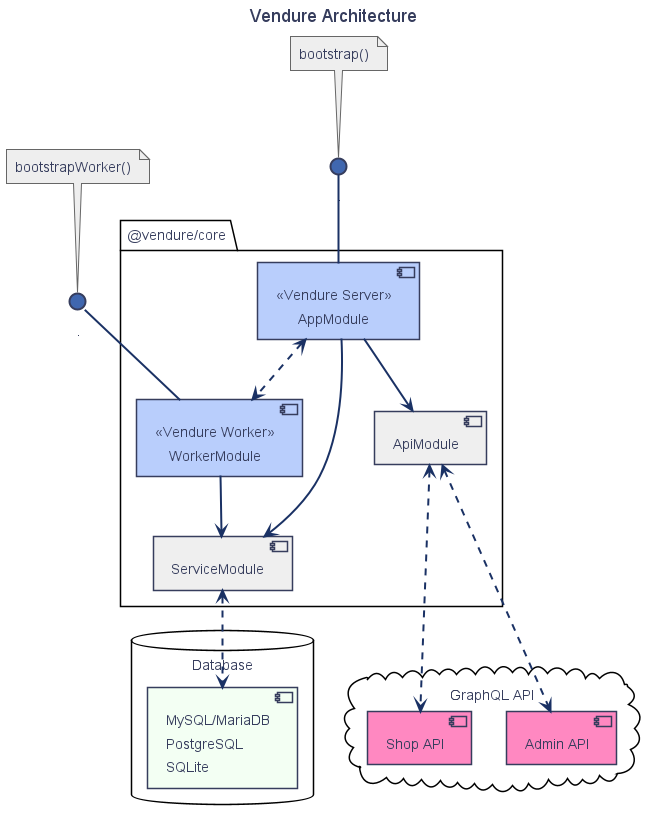
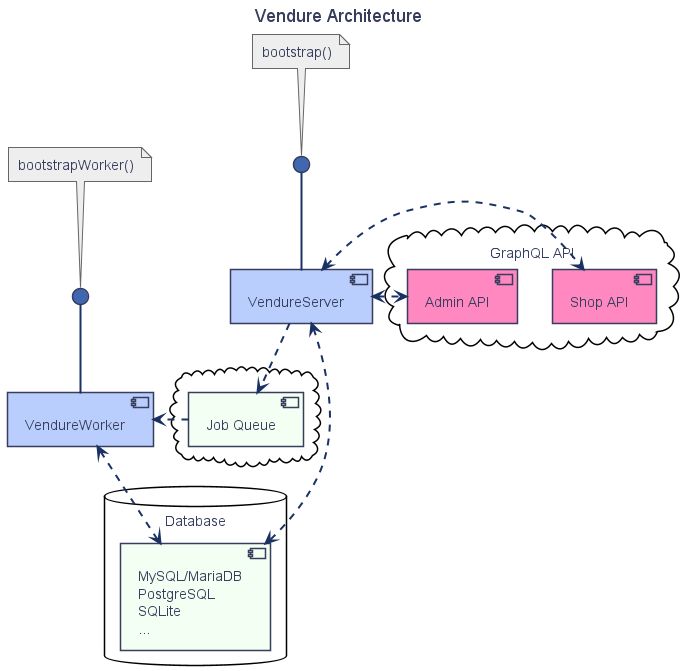
docs: Update docs relating to worker & job queue

diff --git a/docs/content/docs/developer-guide/vendure-worker.md b/docs/content/docs/developer-guide/vendure-worker.md
@@ -5,44 +5,70 @@ showtoc: true
 
 # Vendure Worker
  
-The Vendure Worker is a process which is responsible for running computationally intensive or otherwise long-running tasks in the background. For example updating a search index or performing image transformations.
+The Vendure Worker is a process which is responsible for running computationally intensive or otherwise long-running tasks in the background. For example updating a search index or sending emails. Running such tasks in the background allows the server to stay responsive, since a response can be returned immediately without waiting for the slower tasks to complete. 
+
+Put another way, the Worker executes jobs registered with the [JobQueueService]({{< relref "job-queue-service" >}}).
 
 The worker is started by calling the [`bootstrapWorker()`]({{< relref "bootstrap-worker" >}}) function with the same configuration as is passed to the main server `bootstrap()`:
 
 ```TypeScript
-import { Transport } from '@nestjs/microservices';
-import { bootstrapWorker, VendureConfig } from '@vendure/core';
+import { bootstrapWorker } from '@vendure/core';
+import { config } from './vendure-config';
 
-const config: VendureConfig = {
-    // ...
-    workerOptions: {
-        transport: Transport.TCP,
-        options: {
-            host: 'localhost',
-            port: 4242,
-        },
-    },
-};
-
-bootstrapWorker(config).catch(err => {
+bootstrapWorker(config)
+  // We must explicitly start the job queue in order for this
+  // worker instance to start listening for and processing jobs.
+  .then(worker => worker.startJobQueue())
+  .catch(err => {
     console.log(err);
-});
+    process.exit(1);
+  });
 ```
 
 ## Underlying architecture
 
-Internally, the Worker is an instance of a [NestJS microservice](https://docs.nestjs.com/microservices/basics). By default the TCP protocol is used to send messages to and receive reponses from the Worker, but other transports may be used such as Redis or gRPC.
+The Worker is a [NestJS standalone application](https://docs.nestjs.com/standalone-applications). This means it is almost identical to the main server app, but does not have any network layer listening for requests. The server communicates with the worker via a "job queue" architecture. The exact implementation of the job queue is dependent on the configured `JobQueueStrategy` - see the [Job Queue guide]({{< relref "job-queue" >}}) for more details.
 
-## Running on the main process
+## Multiple workers
 
-There is an option `runInMainProcess` which, if set to `true` will cause the Worker to be bootstrapped along with the main application, without the need for a separate process running `bootstrapWorker`. This is mainly used for testing and automated tasks, and is not advised for production use, since it negates the benefits of running long tasks off of the main process.
+It is possible to run multiple workers in parallel, in order to better handle heavy loads. Using the [JobQueueOptions.activeQueues]({{< relref "job-queue-options" >}}#activequeues) configuration, it is even possible to have particular workers dedicated to one or more specific type of job.
+For example, if you application does video transcoding, you might want to set up a dedicated worker just for that task:
+
+```TypeScript
+import { bootstrapWorker, mergeConfig } from '@vendure/core';
+import { config } from './vendure-config';
+
+const videoWorkerConfig = mergeConfig(config, {
+  jobQueueOptions: {
+    activeQueues: ['transcode-video'],
+  }
+})
+
+bootstrapWorker(videoWorkerConfig)
+  .then(worker => worker.startJobQueue())
+  .catch(err => {
+    console.log(err);
+    process.exit(1);
+  });
+```
+
+## Running jobs on the main process
+
+It is possible to run jobs from the Job Queue on the main server. This is mainly used for testing and automated tasks, and is not advised for production use, since it negates the benefits of running long tasks off of the main process. To do so, you need to manually start the JobQueueService:
+
+```TypeScript
+import { bootstrap, JobQueueService } from '@vendure/core';
+import { config } from './vendure-config';
+
+bootstrap(config)
+  .then(app => app.get(JobQueueService).start())
+  .catch(err => {
+    console.log(err);
+    process.exit(1);
+  });
+```
 
 ## Running custom code on the worker
 
 If you are authoring a [Vendure plugin]({{< relref "/docs/plugins" >}}) to implement custom functionality, you can also make use of the worker process in order to handle long-running or computationally-demanding tasks. See the [Plugin Examples]({{< relref "plugin-examples" >}}#running-processes-on-the-worker) page for an example of this.
 
-{{< alert "primary" >}}
-Note: The [WorkerService]({{< relref "worker-service" >}}) combines well with the [JobQueueService]({{< relref "job-queue-service" >}}).
-
-A real example of this can be seen in the [EmailPlugin source](https://github.com/vendure-ecommerce/vendure/blob/07e1958f1ad1766e6fd3dae80f526bb688c0288e/packages/email-plugin/src/plugin.ts#L201-L210)
-{{< /alert >}}

diff --git a/docs/content/docs/plugins/plugin-examples/using-job-queue-service.md b/docs/content/docs/plugins/plugin-examples/using-job-queue-service.md
@@ -1,10 +1,10 @@
 ---
-title: "Using the JobQueueService"
+title: "Using the Job Queue"
 weight: 4
 showtoc: true
 ---
 
-# Using the JobQueueService
+# Using the Job Queue
 
 If your plugin involves long-running tasks, you can take advantage of the [job queue system]({{< relref "/docs/developer-guide/job-queue" >}}) that comes with Vendure. This example defines a mutation that can be used to transcode and link a video to a Product's customFields.
 
@@ -20,7 +20,7 @@ class ProductVideoResolver {
   constructor(private productVideoService: ProductVideoService) {}
 
   @Mutation()
-  addVideoToProduct(@Args() args: any) {
+  addVideoToProduct(@Args() args: { productId: ID; videoUrl: string; }) {
     return this.productVideoService.transcodeForProduct(
       args.productId, 
       args.videoUrl,
@@ -34,50 +34,45 @@ The resolver just defines how to handle the new `addVideoToProduct` mutation, de
 // product-video.service.ts
 import { Injectable, OnModuleInit } from '@nestjs/common';
 import { JobQueue, JobQueueService, ID, Product, TransactionalConnection } from '@vendure/core';
-import { transcode } from 'third-party-video-sdk'; 
-
-let jobQueue: JobQueue<{ productId: ID; videoUrl: string; }>;
+import { transcode } from 'third-party-video-sdk';
 
 @Injectable()
 class ProductVideoService implements OnModuleInit { 
+    
+  private jobQueue: JobQueue<{ productId: ID; videoUrl: string; }>;
   
-  constructor(private jobQueueService: JobQueueService, 
+  constructor(private jobQueueService: JobQueueService,
               private connection: TransactionalConnection) {}
 
   onModuleInit() {
-    // This check ensures that only a single JobQueue is created, even if this
-    // service gets instantiated more than once.
-    if (!jobQueue) {
-      jobQueue = this.jobQueueService.createQueue({
-        name: 'transcode-video',
-        concurrency: 5,
-        process: async job => {
-          // Here we define how each job in the queue will be processed.
-          // In this case we call out to some imaginary 3rd-party video
-          // transcoding API, which performs the work and then
-          // returns a new URL of the transcoded video, which we can then
-          // associate with the Product via the customFields.
-          try {
-            const result = await transcode(job.data.videoId);
-            await this.connection.getRepository(Product).save({
-              id: job.data.productId,
-              customFields: {
-                videoUrl: result.url,
-              },
-            });
-            job.complete(result);
-          } catch (e) {
-            job.fail(e);
-          }
-        },
-      });
-    }
+    this.jobQueue = this.jobQueueService.createQueue({
+      name: 'transcode-video',
+      process: async job => {
+        // Here we define how each job in the queue will be processed.
+        // In this case we call out to some imaginary 3rd-party video
+        // transcoding API, which performs the work and then
+        // returns a new URL of the transcoded video, which we can then
+        // associate with the Product via the customFields.
+        const result = await transcode(job.data.videoUrl);
+        await this.connection.getRepository(Product).save({
+          id: job.data.productId,
+          customFields: {
+            videoUrl: result.url,
+          },
+        });
+        // The value returned from the `process` function is stored as the "result"
+        // field of the job (for those JobQueueStrategies that support recording of results).
+        //  
+        // Any error thrown from this function will cause the job to fail.  
+        return result
+      },
+    });
   }
 
   transcodeForProduct(productId: ID, videoUrl: string) { 
     // Add a new job to the queue and immediately return the
     // job itself.
-    return jobQueue.add({ productId, videoUrl });
+    return this.jobQueue.add({ productId, videoUrl }, { retries: 2 });
   }
 }
 ```

diff --git a/docs/content/docs/plugins/plugin-lifecycle/index.md b/docs/content/docs/plugins/plugin-lifecycle/index.md
@@ -5,60 +5,47 @@ weight: 3
 
 # Plugin Lifecycle
 
-A VendurePlugin can make use of a number pre-defined "hooks", which allow the plugin to execute code at specific points during the lifecycle of the application. 
+Since a VendurePlugin is built on top of the Nestjs module system, any plugin (as well as any providers it defines) can make use of any of the [Nestjs lifecycle hooks](https://docs.nestjs.com/fundamentals/lifecycle-events):
 
-## Nestjs Lifecycle Hooks
+* onModuleInit
+* onApplicationBootstrap
+* onModuleDestroy
+* beforeApplicationShutdown
+* onApplicationShutdown
 
-Since a VendurePlugin is built on top of the Nestjs module system, any plugin can make use of any of the [Nestjs lifecycle hooks](https://docs.nestjs.com/fundamentals/lifecycle-events).
+Note that lifecycle hooks are run in _both_ the server and worker contexts.
 
-{{< alert "warning" >}}
-Note that since a Plugin will typically be instantiated in _both_ the main process _and_ the worker, any logic defined in a Nestjs lifecycle hook will be executed **twice**. 
+## Configure
 
-To run logic _only_ in the main process or worker process, use the Vendure-specific hooks below, or inject the [`ProcessContext`]({{< relref "process-context" >}}) provider.
-{{< /alert >}}
+Another hook which is not strictly a lifecycle hook, but which can be useful to know is the [`configure` method](https://docs.nestjs.com/middleware#applying-middleware) which is used by NestJS to apply middleware. This method is called _only_ for the server and _not_ for the worker, since middleware relates to the network stack, and the worker has no network part.
 
-## Vendure-specific hooks
-
-Vendure defines some additional hooks which allow you to target logic depending on the context (main process or worker), as well as letting you run code _prior_ to the bootstrap process.
-
-The available Vendure-specific lifecycle hooks are:
-
-* [`beforeVendureBootstrap`]({{< relref "plugin-lifecycle-methods" >}}#beforevendurebootstrap) (static method)
-* [`beforeVendureWorkerBootstrap`]({{< relref "plugin-lifecycle-methods" >}}#beforevendureworkerbootstrap) (static method)
-* [`onVendureBootstrap`]({{< relref "plugin-lifecycle-methods" >}}#onvendurebootstrap)
-* [`onVendureWorkerBootstrap`]({{< relref "plugin-lifecycle-methods" >}}#onvendureworkerbootstrap)
-* [`onVendureClose`]({{< relref "plugin-lifecycle-methods" >}}#onvendureclose)
-* [`onVendureWorkerClose`]({{< relref "plugin-lifecycle-methods" >}}#onvendureworkerclose)
-
-### Example 
+## Example
 
 ```TypeScript
-import { OnVendureBootstrap, VendurePlugin } from '@vendure/core';
+import { MiddlewareConsumer, NestModule, OnApplicationBootstrap } from '@nestjs/common';
+import { EventBus, PluginCommonModule, VendurePlugin } from '@vendure/core';
 
 @VendurePlugin({
-  // ...
+    imports: [PluginCommonModule]
 })
-export class MyPlugin implements OnVendureBootstrap {
+export class MyPlugin implements OnApplicationBootstrap, NestModule {
 
-  static beforeVendureBootstrap(app) {
-    // An example use-case for this hook is to add 
-    // global middleware as described in 
-    // https://docs.nestjs.com/middleware#global-middleware
-    app.use(/* ... */);
+  constructor(private eventBus: EventBus) {}
+
+  configure(consumer: MiddlewareConsumer) {
+    consumer
+      .apply(MyMiddleware)
+      .forRoutes('my-custom-route');
   }
-  
-  async onVendureBootstrap() {
-    // setup logic here. If retuning a Promise, 
-    // app initialization will wait until the Promise resolves.
+
+  async onApplicationBootstrap() {
     await myAsyncInitFunction();
-  }
 
+    this.eventBus
+      .ofType(OrderStateTransitionEvent)
+      .subscribe((event) => {
+        // do some action when this event fires
+      });
+  }
 }
 ```
-
-## Full Lifecycle Diagram
-
-This diagram illustrates how the Nestjs & Vendure lifecycle hooks relate to one another:
-
-{{< figure src="./plugin_lifecycle.png" >}}
-

diff --git a/docs/content/docs/developer-guide/job-queue/index.md b/docs/content/docs/developer-guide/job-queue/index.md
@@ -24,22 +24,28 @@ Some operations however will need to perform much longer-running tasks. For exam
 -   Updating the contents of Collections
 -   Sending transactional emails
 
-## Job Queue persistence
+## How does the Job Queue work?
 
-When a job is added to the queue, that fact must be persisted to some kind of storage. In Vendure, the storage mechanism is defined by the [JobQueueStrategy]({{< relref "job-queue-strategy" >}}).
+This diagram illustrates the job queue mechanism:
 
-By default, Vendure uses an [in-memory store]({{< relref "in-memory-job-queue-strategy" >}}) of the contents of each queue. While this has the advantage of requiring no external dependencies, it is not suitable for production because when the server is stopped, the entire queue will be lost and any pending jobs will never be processed.
+{{< figure src="./job_queue_sequence.png" >}}
 
-A better alternative is to use the [DefaultJobQueuePlugin]({{< relref "default-job-queue-plugin" >}}), which configures Vendure to use the [SqlJobQueueStrategy]({{< relref "sql-job-queue-strategy" >}}). This means that event if the Vendure server stops, pending jobs will be persisted and upon re-start, they will be processed.
+The server adds jobs to the queue. The worker then picks up these jobs from the queue and processes them in sequence, one by one (it is possible to increase job queue throughput by [running multiple workers]({{< relref "vendure-worker" >}}#multiple-workers)).
 
-It is also possible to implement your own JobQueueStrategy to enable other persistence mechanisms, e.g. Redis.
+### JobQueueStrategy
+
+The actual queue part is defined by the configured [JobQueueStrategy]({{< relref "job-queue-strategy" >}}).
+
+If no strategy is defined, Vendure uses an [in-memory store]({{< relref "in-memory-job-queue-strategy" >}}) of the contents of each queue. While this has the advantage of requiring no external dependencies, it is not suitable for production because when the server is stopped, the entire queue will be lost and any pending jobs will never be processed. Moreover, it cannot be used when running the worker as a separate process.
+
+A better alternative is to use the [DefaultJobQueuePlugin]({{< relref "default-job-queue-plugin" >}}) (which will be used in a standard `@vendure/create` installation), which configures Vendure to use the [SqlJobQueueStrategy]({{< relref "sql-job-queue-strategy" >}}). This strategy uses the database as a queue, and means that event if the Vendure server stops, pending jobs will be persisted and upon re-start, they will be processed.
+
+It is also possible to implement your own JobQueueStrategy to take advantage of other technologies. Examples include Redis, RabbitMQ, Google Cloud Pub Sub & Amazon SQS. It may make sense to implement a custom strategy based on one of these if the default database-based approach does not meet your performance requirements.
 
 ## Using Job Queues in a plugin
 
 If you create a [Vendure plugin]({{< relref "/docs/plugins" >}}) which involves some long-running tasks, you can also make use of the job queue. See the [JobQueue plugin example]({{< relref "using-job-queue-service" >}}) for a detailed annotated example.
 
 {{< alert "primary" >}}
-Note: The [JobQueueService]({{< relref "job-queue-service" >}}) combines well with the [WorkerService]({{< relref "worker-service" >}}).
-
-A real example of this can be seen in the [EmailPlugin source](https://github.com/vendure-ecommerce/vendure/blob/07e1958f1ad1766e6fd3dae80f526bb688c0288e/packages/email-plugin/src/plugin.ts#L201-L210)
+A real example of this can be seen in the [EmailPlugin source](https://github.com/vendure-ecommerce/vendure/blob/master/packages/email-plugin/src/plugin.ts)
 {{< /alert >}}

diff --git a/docs/content/docs/developer-guide/overview/_index.md b/docs/content/docs/developer-guide/overview/_index.md
@@ -13,7 +13,7 @@ Here is a simplified diagram of the Vendure application architecture:
 
 ## Entry Points
 
-As you can see in the diagram, there are two entry points into the application: [`bootstrap()`]({{< relref "bootstrap" >}}) and [`bootstrapWorker()`]({{< relref "bootstrap-worker" >}}), which start the main server and the [worker]({{< relref "vendure-worker" >}}) respectively.
+As you can see in the diagram, there are two entry points into the application: [`bootstrap()`]({{< relref "bootstrap" >}}) and [`bootstrapWorker()`]({{< relref "bootstrap-worker" >}}), which start the main server and the [worker]({{< relref "vendure-worker" >}}) respectively. Communication between server and worker(s) is done via the [Job Queue]({{< relref "/docs/developer-guide/job-queue" >}}).
 
 ## GraphQL APIs
 
@@ -25,10 +25,6 @@ There are 2 separate GraphQL APIs: shop and admin.
 * The **Admin API** is used by administrators to manage products, customers and orders. 
 
     [Admin API Documentation]({{< relref "/docs/graphql-api/admin" >}}).
-
-## ServiceModule
-
-This is an internal module which contains the bulk of the Vendure business logic for managing products, customers, orders, collections etc.
 
 ## Database
 

diff --git a/docs/content/docs/developer-guide/configuration.md b/docs/content/docs/developer-guide/configuration.md
@@ -155,7 +155,7 @@ export const config: VendureConfig = {
 
 ### Connecting to the worker
 
-The Vendure worker is configured with [`VendureConfig.workerOptions`]({{< relref "worker-options" >}}). The worker is a [Nestjs microservice](https://docs.nestjs.com/microservices/basics) which runs in another process (and can be located on another server or in another container) from the main server.
+The Vendure worker is configured with [`VendureConfig.workerOptions`]. The worker is a [Nestjs microservice](https://docs.nestjs.com/microservices/basics) which runs in another process (and can be located on another server or in another container) from the main server.
 
 By default, the worker communication happens over TCP. If you want to run the worker in a separate container or physical server to the server, please see the [deployment guide]({{< relref "deployment" >}}#deploying-the-worker).
 

diff --git a/docs/content/docs/plugins/plugin-examples/adding-rest-endpoint.md b/docs/content/docs/plugins/plugin-examples/adding-rest-endpoint.md
@@ -13,12 +13,12 @@ import { Ctx, ProductService, RequestContext } from '@vendure/core';
 
 @Controller('products')
 export class ProductsController {
-    constructor(private productService: ProductService) {}
+  constructor(private productService: ProductService) {}
 
-    @Get()
-    findAll(@Ctx() ctx: RequestContext) {
-        return this.productService.findAll(ctx);
-    }
+  @Get()
+  findAll(@Ctx() ctx: RequestContext) {
+    return this.productService.findAll(ctx);
+  }
 }
 ```
 ```TypeScript
@@ -27,8 +27,8 @@ import { PluginCommonModule, VendurePlugin } from '@vendure/core';
 import { ProductsController } from './products.controller';
 
 @VendurePlugin({
-    imports: [PluginCommonModule],
-    controllers: [ProductsController],
+  imports: [PluginCommonModule],
+  controllers: [ProductsController],
 })
 export class RestPlugin {}
 ```

diff --git a/docs/content/docs/developer-guide/updating-vendure.md b/docs/content/docs/developer-guide/updating-vendure.md
@@ -43,7 +43,6 @@ In practice, we aim to introduce breaking changes in **minor versions** and non-
 * Changes to the database schema
 * Changes to the GraphQL schema
 * Updates of major underlying libraries, such as upgrading NestJS to a new major version
-* Changes to certain core services which are often used in plugins, such as the JobQueue or WorkerService providers.
 
 Every release will be accompanied by an entry in the [changelog](https://github.com/vendure-ecommerce/vendure/blob/master/CHANGELOG.md), listing the changes in that release. And breaking changes are clearly listed under a **BREAKING CHANGE** heading.
 
